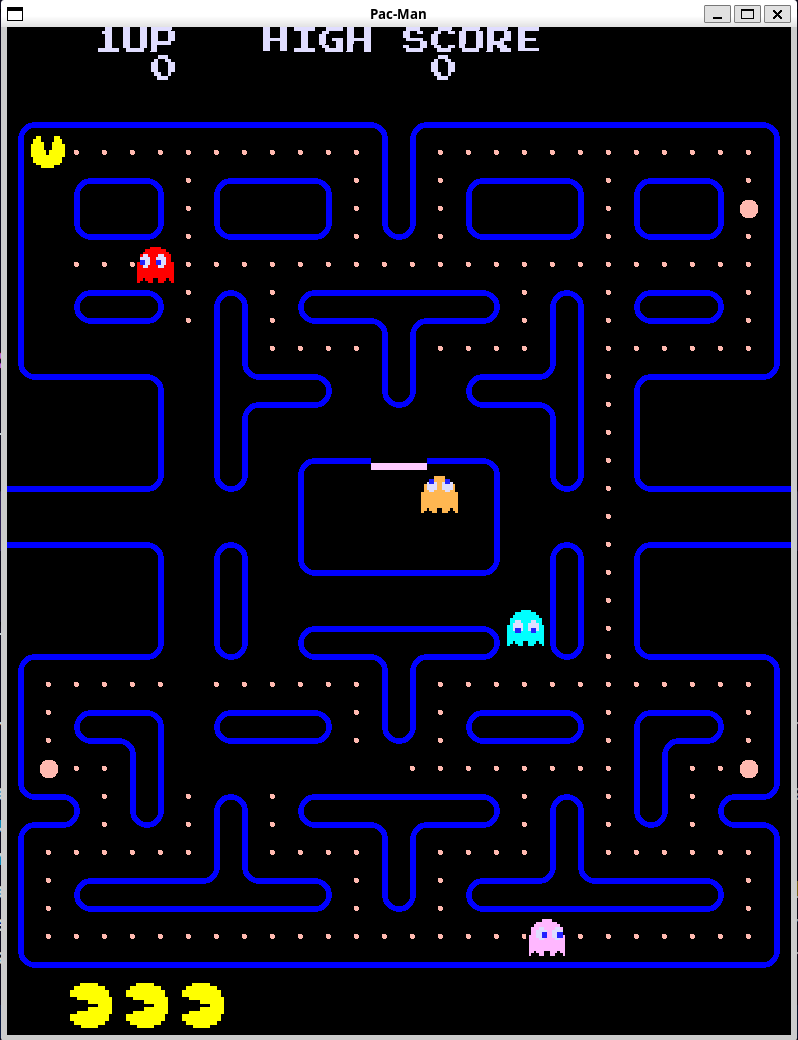
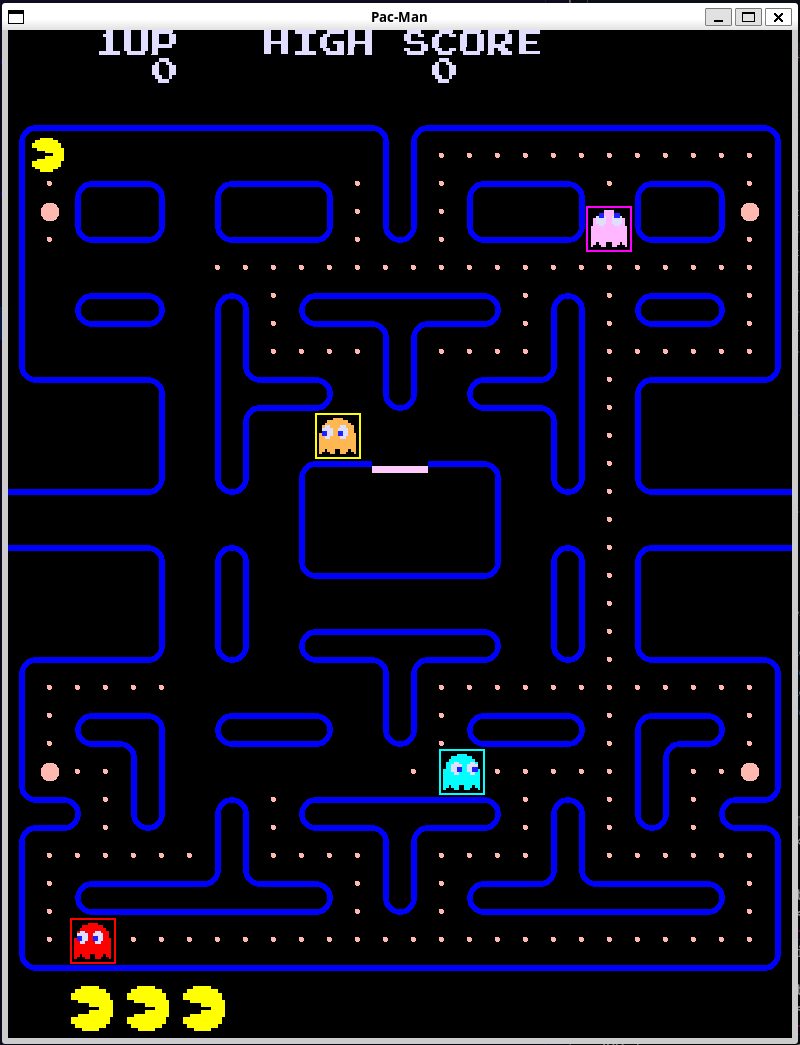
documentazione

diff --git a/DOCUMENTAZIONE.md b/DOCUMENTAZIONE.md
@@ -2,7 +2,7 @@
 ## Obiettivo
 L'obiettivo in questa tappa del progetto "Pac-Man" è quello di implementare la collisione dei fantasmi con pacman con la gestione della vita di pacman. In caso di collisione, pacman perde una vita e viene riportato alla posizione iniziale. Se pacman ha esaurito tutte le vite, settiamo un flag che indica che il gioco è terminato.
 ## Ostacoli
-
+Nessun ostacolo particolare.
 ## Soluzione
-
+Per controllare se il fantasma mangiava pacman, controllo la posizione di pacman e del fantasma tramite il calcolo della distanza euclidea tra i due oggetti e se questa distanza è minore di un certo valore ``COLLIDE_BOX`` allora viene triggerato un reset del round (quindi il reset delle posizioni) e il decremento della vita di pacman. Se pacman ha esaurito tutte le vite, viene settato il flag ``game_over`` a true e il gioco termina (in questo caso viene messo in pausa).
 ![demo](demo.png)
